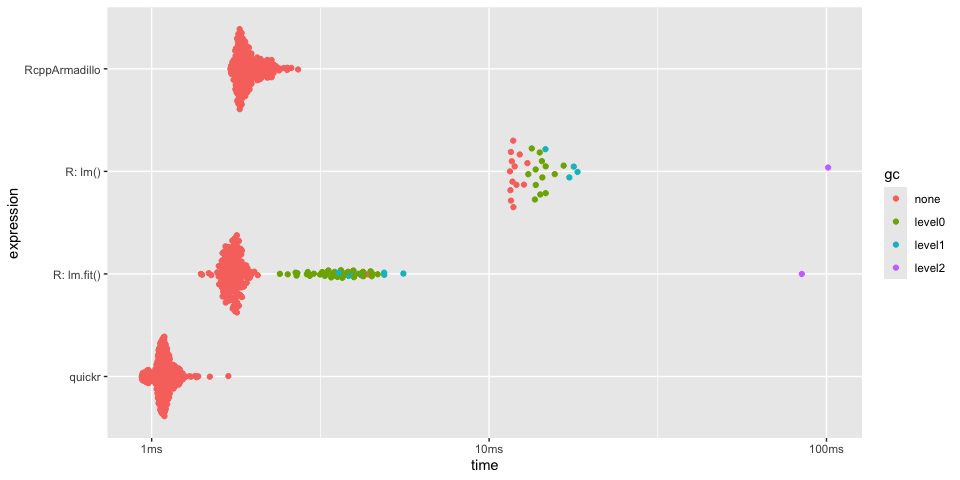
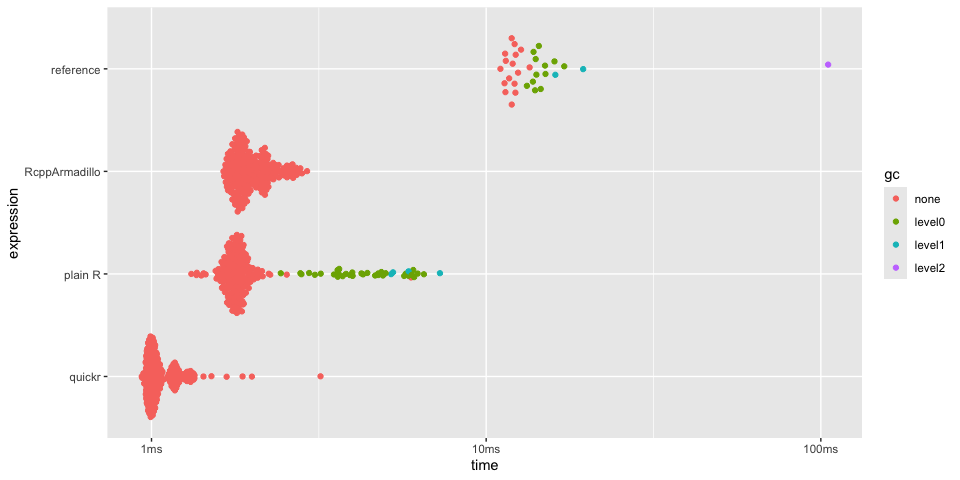
Rerender readme

diff --git a/README.md b/README.md
@@ -140,9 +140,9 @@ timings
 #> # A tibble: 3 × 6
 #>   expression      min   median `itr/sec` mem_alloc `gc/sec`
 #>   <bch:expr> <bch:tm> <bch:tm>     <dbl> <bch:byt>    <dbl>
-#> 1 r             483ms 485.62ms      2.06     782KB     3.09
-#> 2 quickr        943µs   1.07ms    938.       782KB    17.6 
-#> 3 c             936µs   1.07ms    932.       782KB    17.5
+#> 1 r             486ms 488.58ms      2.05     782KB     3.07
+#> 2 quickr        914µs   1.08ms    927.       782KB    17.6 
+#> 3 c             939µs   1.08ms    924.       782KB    16.9
 plot(timings) + bench::scale_x_bench_time(base = NULL)
 ```
 
@@ -301,8 +301,8 @@ timings
 #> # A tibble: 2 × 6
 #>   expression         min   median `itr/sec` mem_alloc `gc/sec`
 #>   <bch:expr>    <bch:tm> <bch:tm>     <dbl> <bch:byt>    <dbl>
-#> 1 slow_viterbi    61.3µs   74.7µs    12631.    1.59KB     27.4
-#> 2 quick_viterbi   1.68µs   1.89µs   511508.        0B     51.2
+#> 1 slow_viterbi   62.52µs  76.38µs    12597.    1.59KB     27.4
+#> 2 quick_viterbi   1.68µs   1.93µs   485963.        0B     48.6
 plot(timings)
 ```
 
@@ -393,8 +393,8 @@ summary(timings, relative = TRUE)
 #> # A tibble: 2 × 6
 #>   expression           min median `itr/sec` mem_alloc `gc/sec`
 #>   <bch:expr>         <dbl>  <dbl>     <dbl>     <dbl>    <dbl>
-#> 1 diffuse_heat        5.28   6.30      1        4893.      Inf
-#> 2 quick_diffuse_heat  1      1         5.31        1       NaN
+#> 1 diffuse_heat        6.56   8.90      1        4893.      Inf
+#> 2 quick_diffuse_heat  1      1         7.31        1       NaN
 plot(timings)
 ```
 
@@ -440,9 +440,9 @@ timings
 #> # A tibble: 3 × 6
 #>   expression      min   median `itr/sec` mem_alloc `gc/sec`
 #>   <bch:expr> <bch:tm> <bch:tm>     <dbl> <bch:byt>    <dbl>
-#> 1 r            68.3ms  70.32ms      9.62  124.24MB    15.4 
-#> 2 rcpp         5.88ms   6.13ms    160.      4.46MB     1.98
-#> 3 quickr       2.15ms   2.27ms    434.    781.35KB     3.98
+#> 1 r           67.78ms  69.31ms      9.88  124.24MB    15.8 
+#> 2 rcpp         5.87ms   6.22ms    158.      4.46MB     2.00
+#> 3 quickr       2.15ms   2.28ms    434.    781.35KB     3.96
 
 timings$expression <- factor(names(timings$expression), rev(names(timings$expression)))
 plot(timings) + bench::scale_x_bench_time(base = NULL)
@@ -466,7 +466,6 @@ RcppArmadillo implementation. The `fastLm` function is adapted from the
 README of the RcppArmadillo project.
 
 ``` r
-
 # reference implementation
 fast_lm_ref <- function(X, y) {
   fit <- lm(y ~ X - 1)
@@ -479,35 +478,6 @@ fast_lm_ref <- function(X, y) {
   )
 }
 
-# fast-path R implementation
-fast_lm <- function(X, y) {
-  declare(
-    type(X = double(n, k)),
-    type(y = double(n))
-  )
-
-  n <- nrow(X)
-  k <- ncol(X)
-  df_residual <- n - k
-
-  coef <- qr.solve(X, y)     # fit model y ~ X
-  res <- y - X %*% coef      # residuals
-  s2 <- sum(res * res) / df_residual
-
-  XtX <- crossprod(X)
-  XtX_inv <- qr.solve(XtX, diag(k))
-  std_err <- sqrt(s2 * diag(XtX_inv))
-
-  list(
-    coefficients = coef,
-    stderr       = std_err,
-    df.residual  = df_residual
-  )
-}
-
-# quickr func
-quick_fast_lm <- quick(fast_lm)
-
 # RcppArmadillo implementation
 Rcpp::sourceCpp(
 code = '
@@ -515,7 +485,7 @@ code = '
 // [[Rcpp::depends(RcppArmadillo)]]
 
 // [[Rcpp::export]]
-Rcpp::List rcpp_armadillo_fast_lm(const arma::mat& X, const arma::colvec& y) {
+Rcpp::List fast_lm_rcpp_armadillo(const arma::mat& X, const arma::colvec& y) {
     int n = X.n_rows, k = X.n_cols;
 
     arma::colvec coef = arma::solve(X, y);     // fit model y ~ X
@@ -527,6 +497,43 @@ Rcpp::List rcpp_armadillo_fast_lm(const arma::mat& X, const arma::colvec& y) {
                               Rcpp::Named("stderr")       = std_err,
                               Rcpp::Named("df.residual")  = n - k);
 }')
+
+# Plain R fast-path
+fast_lm_r <- function(X, y) {
+  declare(
+    type(X = double(n, k)),
+    type(y = double(n))
+  )
+
+  # analogous to arma::pinv()
+  pinv_svd <- function(A, tol = NULL) {
+    s <- svd(A)
+    if (is.null(tol)) {
+      tol <- max(dim(A)) * max(s$d) * .Machine$double.eps
+    }
+    d_inv <- ifelse(s$d > tol, 1 / s$d, 0)
+    s$v %*% (d_inv * t(s$u))
+  }
+
+  df_residual <- nrow(X) - ncol(X)
+
+  coef <- qr.solve(X, y) # analogous to arma::solve(X, y)
+  res <- y - X %*% coef
+  s2 <- drop(crossprod(res)) / df_residual
+
+  XtX <- crossprod(X)
+  XtX_pinv <- pinv_svd(XtX) # analogous to arma::pinv()
+  std_err <- sqrt(s2 * diag(XtX_pinv))
+
+  list(
+    coefficients = coef, 
+    stderr = std_err,
+    df.residual = df_residual
+  )
+}
+
+# quickr func
+quick_fast_lm <- quick(fast_lm_r)
 ```
 
 ### Benchmark
@@ -538,31 +545,24 @@ beta <- c(0.5, 1.0, -2.0, 10, 5)
 X <- cbind(1, matrix(rnorm(3 * 10^5), ncol = 4))
 y <- as.vector(X %*% beta + rnorm(nrow(X), sd = 2))
 
-f <- lm.fit(X, y)
-ff <- lm(y ~ X - 1)
-all.equal(f$coefficients, lm(y ~ X)$coefficients)
-#> [1] "Names: 5 string mismatches"     "Numeric: lengths (5, 6) differ"
-all.equal(unname(f$coefficients), unname(coef(lm(y ~ X - 1))))
-#> [1] TRUE
-
-
-
 timings <- bench::mark(
-  `R: lm()` = fast_lm_ref(X, y),
-  `R: lm.fit()` = fast_lm(X, y),
-  quickr = quick_fast_lm(X, y),
-  RcppArmadillo = rcpp_armadillo_fast_lm(X, y)
+  `reference`     = fast_lm_ref(X, y),
+  `RcppArmadillo` = fast_lm_rcpp_armadillo(X, y),
+  `plain R`       = fast_lm_r(X, y),
+  `quickr`        = quick_fast_lm(X, y)
 )
 
 timings
 #> # A tibble: 4 × 6
 #>   expression         min   median `itr/sec` mem_alloc `gc/sec`
 #>   <bch:expr>    <bch:tm> <bch:tm>     <dbl> <bch:byt>    <dbl>
-#> 1 R: lm()        11.53ms  11.79ms      83.7    29.2MB     116.
-#> 2 R: lm.fit()      1.4ms   1.75ms     568.     13.7MB     176.
-#> 3 quickr        934.43µs   1.09ms     916.         0B       0 
-#> 4 RcppArmadillo   1.71ms    1.9ms     512.         0B       0
-plot(timings)
+#> 1 reference      11.03ms  11.96ms      83.5    29.6MB     78.3
+#> 2 RcppArmadillo   1.64ms   1.92ms     497.         0B      0  
+#> 3 plain R         1.31ms   1.79ms     550.     13.2MB    119. 
+#> 4 quickr        934.96µs   1.02ms     933.         0B      0
+plot(timings) + ggplot2::scale_y_discrete(limits = rev(c( 
+  "reference", "RcppArmadillo", "plain R", "quickr"
+)))
 ```
 
 <img src="man/figures/README-unnamed-chunk-10-1.png" alt="" width="100%" />
